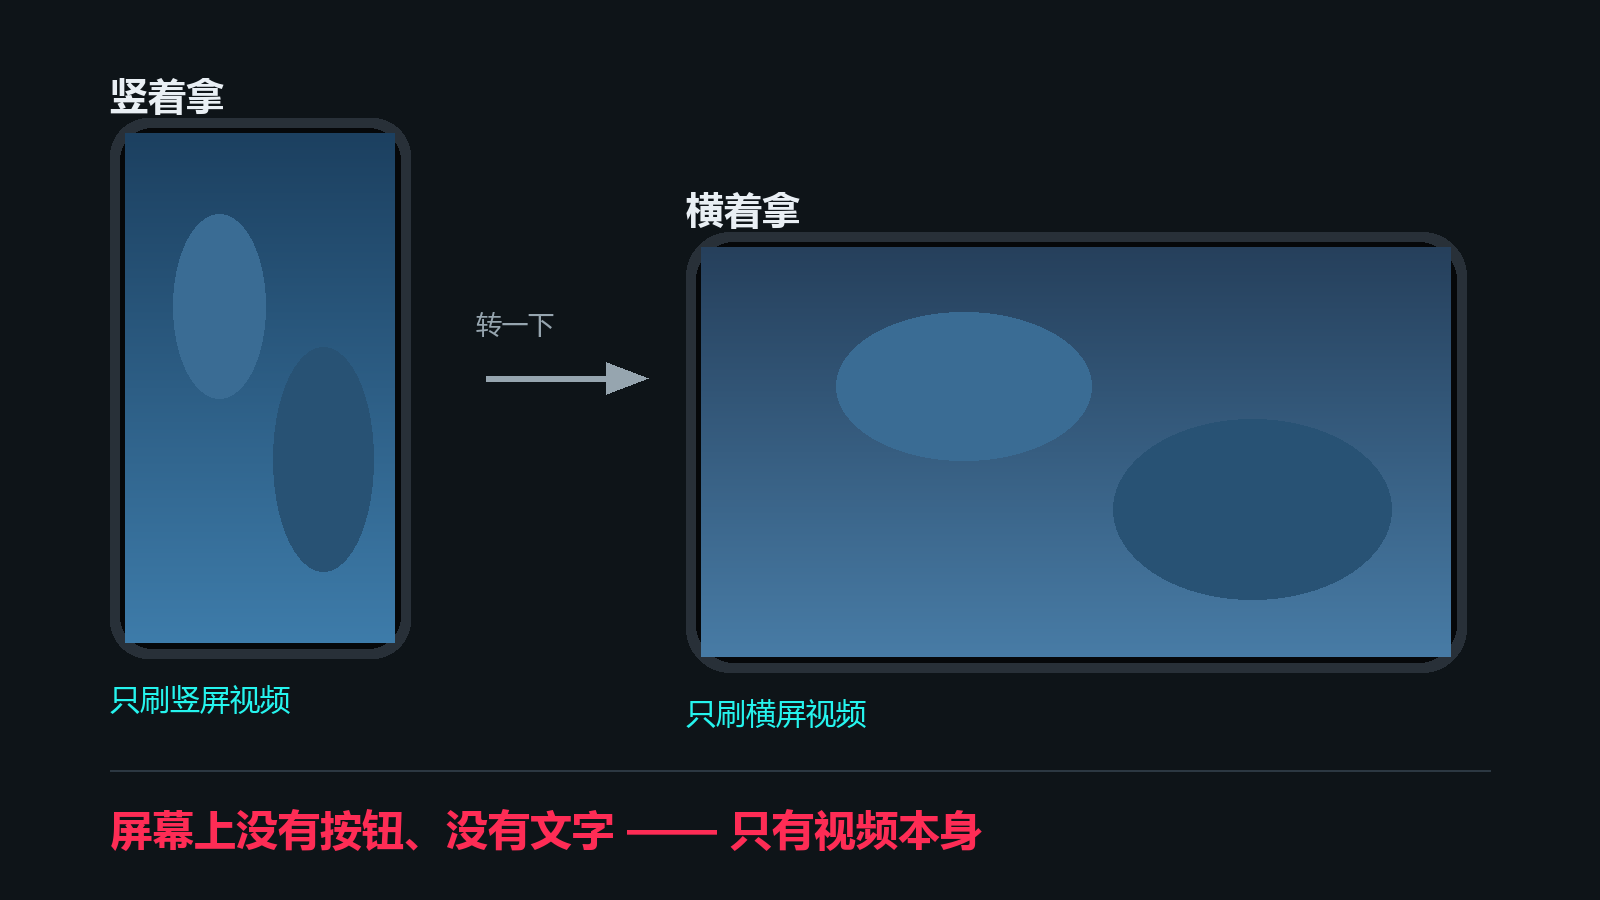
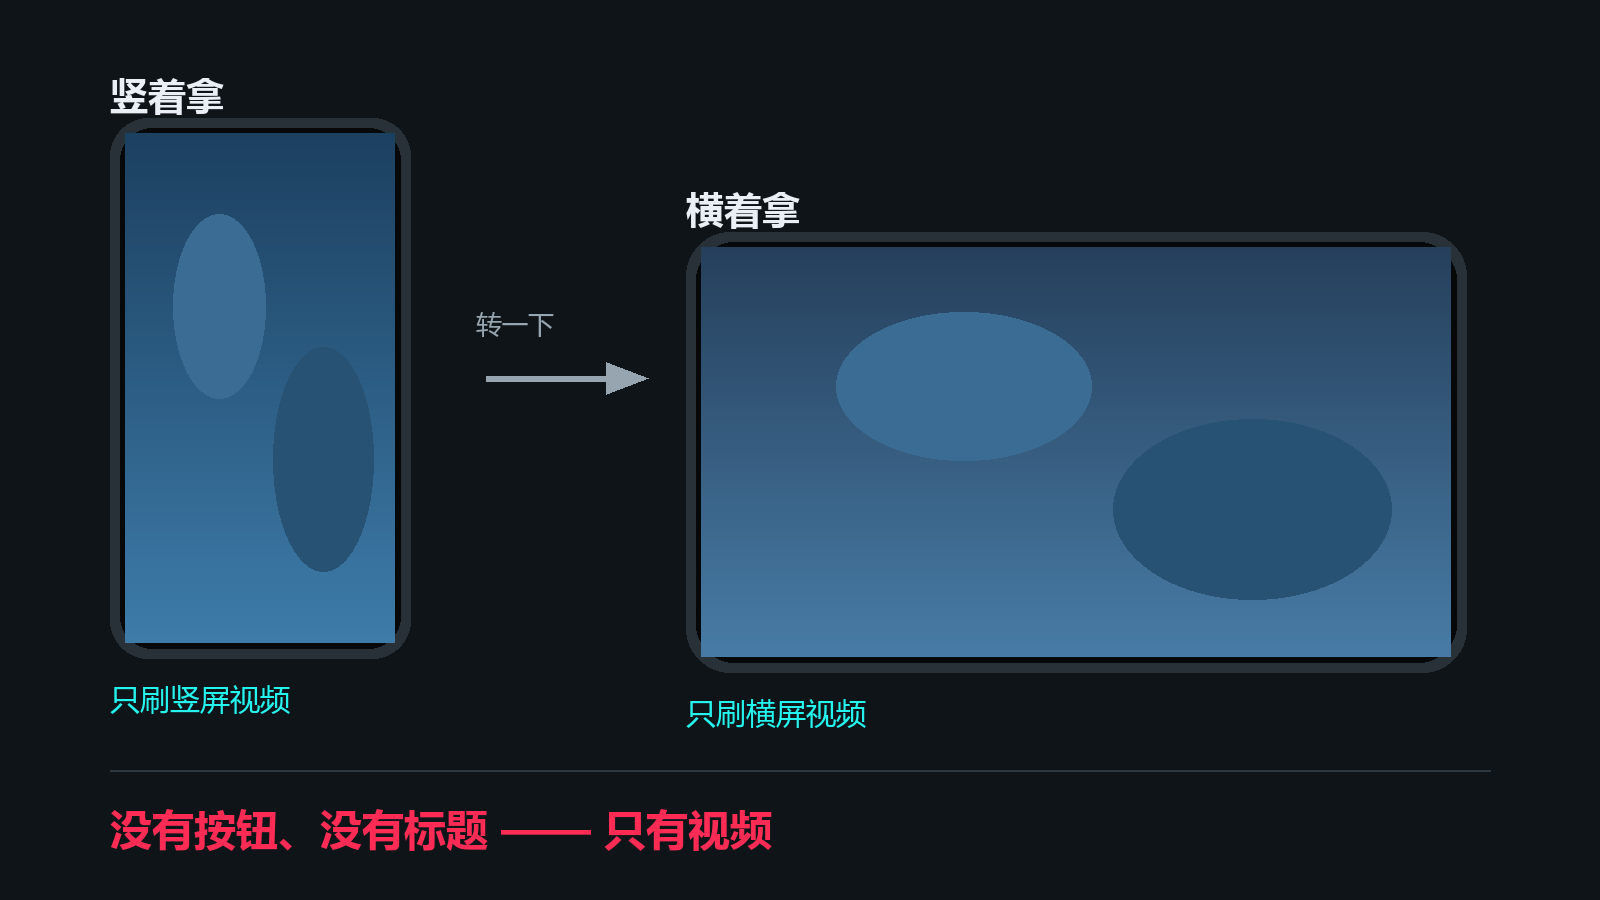
老人抖音 v1.2：加时间/日期/农历/星期/节日信息栏，修横竖屏切换闪退
新增（顶部信息栏）：
- 左上角：时间（19:26）+ 公历日期（10月14日）+ 农历（九月初五）
- 右上角：星期（星期三）+ 今日节日（当天没有节日时整行隐藏）
- 节日优先级：农历节日（春节/中秋/端午…）> 公历节日（国庆/元旦…）——
  传统节日对老人更重要，而它们每年的公历日期都在变，所以用 lunar 库实时算，不写死日期表
- 20 秒对一次表：显示精度只到分钟，但跨天必须当天就换过来
- 垫半透明深色底：视频画面什么颜色都有，白字压在亮画面上会看不见
- 状态提示（"正在加载…"）从顶部挪到底部，避免被信息栏压住

修复（横竖屏切换闪退）：
- FeedAdapter.instantiateItem：列表被清空的瞬间 ViewPager 仍可能来要页面，
  原来直接 mVideos.get(pos) 必定 IndexOutOfBounds；现在给空占位顶着
- FeedAdapter.getItemPosition：参数不是 View 时不再硬转
- FeedActivity.onConfigurationChanged：改为先 notifyDataSetChanged 再 setCurrentItem
  （反过来会让 ViewPager 拿"旧数据 + 新位置"算滚动，对不上）
- FeedActivity.startPlay：ViewPager 子视图的标签加 instanceof 保护

已验证：模拟器上来回转屏 20+ 次（含快速连续转屏、转屏同时滑动）不再崩溃。

版本号 1.1 → 1.2（versionCode 2 → 3）

Changed region(s): [[0.0625, 0.9022, 0.625, 0.9644]]

diff --git a/app/src/main/java/com/laorendouyin/app/feed/FeedActivity.java b/app/src/main/java/com/laorendouyin/app/feed/FeedActivity.java
@@ -157,8 +157,11 @@ public class FeedActivity extends UiActivity {
         if (current != null) {
             mVideoList.add(current);   // 当前视频留在首位 → 播放器有地方可待
             mCurPos = 0;
-            mViewPager.setCurrentItem(0, false);
+            // ⚠ 顺序要紧：**先 notifyDataSetChanged 再 setCurrentItem**。
+            //    反过来的话，ViewPager 会拿"旧数据 + 新位置"去算滚动，数据一变就对不上 ——
+            //    这是"横竖屏切换闪退"的另一半原因。
             mAdapter.notifyDataSetChanged();
+            mViewPager.setCurrentItem(0, false);
             // 重新挂载（转屏会让 item 重新布局；startPlay 会识别出"同一个视频"而只搬视图）
             startPlay(0);
             clearHint();
@@ -416,8 +419,12 @@ public class FeedActivity extends UiActivity {
         int count = mViewPager.getChildCount();
         for (int i = 0; i < count; i++) {
             View itemView = mViewPager.getChildAt(i);
-            FeedAdapter.ViewHolder viewHolder = (FeedAdapter.ViewHolder) itemView.getTag();
-            if (viewHolder != null && viewHolder.mPosition == position) {
+            Object tag = itemView.getTag();
+            // ⚠ 空列表期间 ViewPager 里可能挂着占位 View（没有 ViewHolder 标签）——
+            //    硬转会 ClassCastException，直接跳过最稳。
+            if (!(tag instanceof FeedAdapter.ViewHolder)) continue;
+            FeedAdapter.ViewHolder viewHolder = (FeedAdapter.ViewHolder) tag;
+            if (viewHolder.mPosition == position) {
                 FeedVideo video = mVideoList.get(position);
 
                 // ③ 转屏保活：要挂的就是当前正在播的那个 → 只搬视图，播放不中断
@@ -637,12 +644,73 @@ public class FeedActivity extends UiActivity {
         return true;
     }
 
+    // ---------- 顶部信息栏（时间 / 日期 / 星期 / 节日）----------
+
+    /** 信息栏刷新用的定时器 */
+    private android.os.Handler mClockHandler;
+    private Runnable mClockTick;
+
+    /**
+     * 启动信息栏刷新。
+     *
+     * 为什么是 20 秒一轮而不是每秒：显示精度只到分钟（19:15），每秒刷是白耗电；
+     * 而 20 秒这一档又保证了**跨分钟不超过 20 秒误差、跨天不超过 20 秒** ——
+     * 老人看时间不会因为差这一秒觉得不对，但日期/星期必须当天就换过来。
+     */
+    private void startClock() {
+        if (mClockHandler == null) {
+            mClockHandler = new android.os.Handler(android.os.Looper.getMainLooper());
+        }
+        if (mClockTick == null) {
+            mClockTick = new Runnable() {
+                @Override
+                public void run() {
+                    updateClock();
+                    if (mClockHandler != null) mClockHandler.postDelayed(this, 20_000L);
+                }
+            };
+        }
+        mClockHandler.removeCallbacks(mClockTick);
+        mClockHandler.post(mClockTick);
+    }
+
+    private void stopClock() {
+        if (mClockHandler != null && mClockTick != null) {
+            mClockHandler.removeCallbacks(mClockTick);
+        }
+    }
+
+    /** 刷新四样东西；节日为空时把那一行收起来（不占位、不留空壳） */
+    private void updateClock() {
+        android.widget.TextView tvTime = findViewById(R.id.tv_clock_time);
+        if (tvTime == null) return;   // 布局里没有信息栏时静默跳过
+
+        tvTime.setText(com.laorendouyin.app.util.DateTimeInfo.time());
+        ((android.widget.TextView) findViewById(R.id.tv_clock_date))
+                .setText(com.laorendouyin.app.util.DateTimeInfo.date());
+        ((android.widget.TextView) findViewById(R.id.tv_clock_lunar))
+                .setText(com.laorendouyin.app.util.DateTimeInfo.lunar());
+        ((android.widget.TextView) findViewById(R.id.tv_clock_week))
+                .setText(com.laorendouyin.app.util.DateTimeInfo.week());
+
+        android.widget.TextView tvFestival = findViewById(R.id.tv_clock_festival);
+        String festival = com.laorendouyin.app.util.DateTimeInfo.festival();
+        if (festival.isEmpty()) {
+            tvFestival.setVisibility(View.GONE);
+        } else {
+            tvFestival.setText(festival);
+            tvFestival.setVisibility(View.VISIBLE);
+        }
+    }
+
     @Override
     protected void onResume() {
         super.onResume();
         if (mVideoView != null) mVideoView.resume();
         // 预加载跟着页面可见性走：后台时整队停，回来时把没预热好的补齐
         if (mPreloadManager != null) mPreloadManager.resumeAll();
+        // 回到前台立刻对一次表（后台期间可能已经跨分钟/跨天了）
+        startClock();
     }
 
     @Override
@@ -651,6 +719,8 @@ public class FeedActivity extends UiActivity {
         // ⚠ 原来只停了播放器：预加载队列不管，用户按 Home 走后还在继续下（每条最多 1MB）
         if (mPreloadManager != null) mPreloadManager.pauseAll();
         if (mVideoView != null) mVideoView.pause();
+        // 后台没必要再刷时间
+        stopClock();
     }
 
     @Override

diff --git a/app/src/main/java/com/laorendouyin/app/util/DateTimeInfo.java b/app/src/main/java/com/laorendouyin/app/util/DateTimeInfo.java
@@ -1,0 +1,87 @@
+package com.laorendouyin.app.util;
+
+import com.nlf.calendar.Lunar;
+import com.nlf.calendar.Solar;
+
+import java.util.Calendar;
+import java.util.Date;
+import java.util.List;
+import java.util.Locale;
+
+/**
+ * 顶部信息栏要显示的四样东西：**时间 / 日期 / 星期 / 今日节日**。
+ *
+ * 关于"今日节日"为什么必须引入农历库：春节、元宵、端午、中秋、重阳这些是老人最在意的节日，
+ * 而它们的公历日期每年都在变，靠写死日期表迟早出错 —— 所以用 lunar 库现算。
+ * 另外老人的使用场景里，传统节日的权重高于情人节/圣诞节这类，所以**农历节日优先**。
+ */
+public final class DateTimeInfo {
+
+    private DateTimeInfo() {
+    }
+
+    /** 时间：19:15 */
+    public static String time() {
+        Calendar c = Calendar.getInstance();
+        return String.format(Locale.CHINA, "%02d:%02d",
+                c.get(Calendar.HOUR_OF_DAY), c.get(Calendar.MINUTE));
+    }
+
+    /** 日期：10月14日 */
+    public static String date() {
+        Calendar c = Calendar.getInstance();
+        return (c.get(Calendar.MONTH) + 1) + "月" + c.get(Calendar.DAY_OF_MONTH) + "日";
+    }
+
+    private static final String[] WEEK = {
+            "星期日", "星期一", "星期二", "星期三", "星期四", "星期五", "星期六"};
+
+    /** 星期：星期三 */
+    public static String week() {
+        return WEEK[Calendar.getInstance().get(Calendar.DAY_OF_WEEK) - 1];
+    }
+
+    /**
+     * 今日节日：没有节日时返回**空串**（调用方据此把那一行藏起来）。
+     *
+     * 优先级：农历节日（春节/中秋/端午…）> 公历节日（国庆/元旦/劳动节…）。
+     * 一天可能有多个节日（比如既是元旦又是某个农历日子），只取排在最前面的那个 ——
+     * 老人看的是一眼就懂的短标签，堆一串反而看不清。
+     */
+    public static String festival() {
+        try {
+            Solar solar = Solar.fromDate(new Date());
+            Lunar lunar = solar.getLunar();
+
+            List<String> lunarFestivals = lunar.getFestivals();
+            if (lunarFestivals != null && !lunarFestivals.isEmpty()) {
+                return lunarFestivals.get(0);
+            }
+            List<String> solarFestivals = solar.getFestivals();
+            if (solarFestivals != null && !solarFestivals.isEmpty()) {
+                return solarFestivals.get(0);
+            }
+        } catch (Throwable t) {
+            // 节日只是锦上添花，算不出来也绝不能连累主流程
+            AppLog.i("clock", "节日判断失败: " + t);
+        }
+        return "";
+    }
+
+    /**
+     * 农历：九月初九。
+     *
+     * 闰月要显式带"闰"字（如"闰六月"）—— 老人对农历闰月很敏感，
+     * 光写"六月"他们会以为算错了。lunar 库用**负数月份**表示闰月。
+     */
+    public static String lunar() {
+        try {
+            Lunar lunar = Solar.fromDate(new Date()).getLunar();
+            String month = (lunar.getMonth() < 0 ? "闰" : "") + lunar.getMonthInChinese() + "月";
+            return month + lunar.getDayInChinese();
+        } catch (Throwable t) {
+            AppLog.i("clock", "农历计算失败: " + t);
+            return "";
+        }
+    }
+}

diff --git a/app/src/main/java/com/laorendouyin/app/feed/FeedAdapter.java b/app/src/main/java/com/laorendouyin/app/feed/FeedAdapter.java
@@ -45,6 +45,8 @@ public class FeedAdapter extends PagerAdapter {
      */
     @Override
     public int getItemPosition(@NonNull Object object) {
+        // 空列表期间可能塞进来的是占位 View（没有 ViewHolder 标签）→ 一律当"需要重建"
+        if (!(object instanceof View)) return POSITION_NONE;
         View view = (View) object;
         Object tag = view.getTag();
         if (!(tag instanceof ViewHolder)) return POSITION_NONE;
@@ -62,8 +64,21 @@ public class FeedAdapter extends PagerAdapter {
     @Override
     public Object instantiateItem(@NonNull ViewGroup container, int position) {
         Context context = container.getContext();
+
+        // ⚠ 横竖屏切换会先清空列表、再异步拉新方向的内容，中间存在
+        //    "列表已空、但 ViewPager 仍在 populate" 的窗口 —— 此时下面那句 mVideos.get(pos)
+        //    必定 IndexOutOfBounds 闪退（用户报的"横竖屏切换闪退"就是这个）。
+        //    这里给个空占位顶着；等新数据到货 notifyDataSetChanged 后 ViewPager 会自然重建它。
+        if (mVideos == null || mVideos.isEmpty()) {
+            View placeholder = new View(context);
+            placeholder.setLayoutParams(new ViewGroup.LayoutParams(
+                    ViewGroup.LayoutParams.MATCH_PARENT, ViewGroup.LayoutParams.MATCH_PARENT));
+            container.addView(placeholder);
+            return placeholder;
+        }
+
         // 边界护栏：数据变更与 populate 竞态时 position 可能瞬时越界
-        final int pos = Math.min(position, Math.max(0, mVideos.size() - 1));
+        final int pos = Math.min(position, mVideos.size() - 1);
         View view = null;
         if (mViewPool.size() > 0) {
             view = mViewPool.get(0);

diff --git a/README.md b/README.md
@@ -22,8 +22,8 @@
 
 一个**只保留"上下滑看视频"**的抖音客户端。
 
-它把抖音里所有需要认字、需要找按钮、可能点错的东西全部删掉了 —— 界面上**没有任何文字和按钮**，
-画面上只有视频本身。给不识字的老人用时，只要教会一个动作：**往上滑**。
+它把抖音里所有需要认字、需要找按钮、可能点错的东西全部删掉了 —— 界面上**没有任何按钮**，
+画面上只有视频本身（只在顶部角落保留一小块时间/日期，见功能表）。给不识字的老人用时，只要教会一个动作：**往上滑**。
 
 > 这个项目不是从零写的，它是把一个成熟的开源项目（[腕上音符](https://github.com/5h1iky/wanshang-yinfu)）
 > 裁剪成"只剩上下滑"的产物。详见 [源码来源与致谢](#源码来源与致谢)。
@@ -43,6 +43,7 @@
 | **可设为桌面启动器** | 设为默认主屏后，开机直接进视频，老人不用在桌面找图标 |
 | **看过的不再推** | 跨会话去重，不会翻来覆去都是那几条 |
 | **屏幕常亮** | 看着看着不会黑屏 |
+| **顶部信息栏** | 左上角：时间 + 公历日期 + 农历；右上角：星期 + 今日节日（当天没有节日时自动隐藏那一行） |
 
 ### 刻意去掉的
 
@@ -51,7 +52,7 @@
 - **点赞、评论、收藏、分享、作者主页**
 - **登录** —— 全程游客身份，不需要任何账号
 - **设置页、搜索、关注、直播、频道、精选**
-- **画面上的一切文字** —— 标题、作者名、头像、点赞数，一个都不留
+- **画面上的文字** —— 标题、作者名、头像、点赞数，一个都不留（唯一留下的，是顶部那一小块时间/农历/星期/节日）
 
 ---
 
